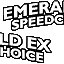
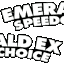
Added Sky Drop effect.

diff --git a/src/battle_util.c b/src/battle_util.c
@@ -1199,6 +1199,20 @@ void CancelMultiTurnMoves(u8 battler)
 
     gStatuses3[battler] &= ~(STATUS3_SEMI_INVULNERABLE);
 
+    // Check to see if this Pokemon was in the middle of Sky Drop. If so, release the target.
+    if (gBattleStruct->skyDropTargets[0] - 4 == battler)
+    {
+        gStatuses3[gBattleStruct->skyDropTargets[1]] &= ~STATUS3_SKY_DROPPED;
+        gBattleMons[gBattleStruct->skyDropTargets[1]].status2 &= ~STATUS2_ESCAPE_PREVENTION;
+        gBattleStruct->skyDropTargets[0] = 0;
+    }
+    else if (gBattleStruct->skyDropTargets[2] - 4 == battler)
+    {
+        gStatuses3[gBattleStruct->skyDropTargets[3]] &= ~STATUS3_SKY_DROPPED;
+        gBattleMons[gBattleStruct->skyDropTargets[3]].status2 &= ~STATUS2_ESCAPE_PREVENTION;
+        gBattleStruct->skyDropTargets[2] = 0;
+    }
+
     gDisableStructs[battler].rolloutTimer = 0;
     gDisableStructs[battler].furyCutterCounter = 0;
 }
@@ -2874,6 +2888,7 @@ static bool32 IsThawingMove(u8 battlerId, u16 move)
 enum
 {
     CANCELLER_FLAGS,
+    CANCELLER_SKY_DROP,
     CANCELLER_ASLEEP,
     CANCELLER_FROZEN,
     CANCELLER_TRUANT,
@@ -2909,6 +2924,16 @@ u8 AtkCanceller_UnableToUseMove(void)
         case CANCELLER_FLAGS: // flags clear
             gBattleMons[gBattlerAttacker].status2 &= ~(STATUS2_DESTINY_BOND);
             gStatuses3[gBattlerAttacker] &= ~(STATUS3_GRUDGE);
+            gBattleStruct->atkCancellerTracker++;
+            break;
+        case CANCELLER_SKY_DROP:
+            // If Pokemon has STATUS3_SKY_DROPPED
+            if ((gStatuses3[gBattlerAttacker] & STATUS3_ON_AIR) && (gStatuses3[gBattlerAttacker] & STATUS3_UNDERGROUND))
+            {
+                gBattlescriptCurrInstr = BattleScript_MoveEnd;
+                gHitMarker |= HITMARKER_UNABLE_TO_USE_MOVE;
+                effect = 1;
+            }
             gBattleStruct->atkCancellerTracker++;
             break;
         case CANCELLER_ASLEEP: // check being asleep
@@ -4484,7 +4509,9 @@ u8 AbilityBattleEffects(u8 caseID, u8 battler, u16 ability, u8 special, u16 move
              && (gMultiHitCounter == 0 || gMultiHitCounter == 1)
              && !(GetBattlerAbility(gBattlerAttacker) == ABILITY_SHEER_FORCE && gBattleMoves[gCurrentMove].flags & FLAG_SHEER_FORCE_BOOST)
              && (CanBattlerSwitch(battler) || !(gBattleTypeFlags & BATTLE_TYPE_TRAINER))
-             && !(gBattleTypeFlags & BATTLE_TYPE_ARENA))
+             && !(gBattleTypeFlags & BATTLE_TYPE_ARENA)
+             // Not currently held by Sky Drop
+             && !(gStatuses3[battler] & STATUS3_ON_AIR && gStatuses3[battler] & STATUS3_UNDERGROUND))
             {
                 gBattleResources->flags->flags[battler] |= RESOURCE_FLAG_EMERGENCY_EXIT;
                 effect++;
@@ -7909,7 +7936,11 @@ static u16 CalcTypeEffectivenessMultiplierInternal(u16 move, u8 moveType, u8 bat
 
     if (moveType == TYPE_GROUND && !IsBattlerGrounded(battlerDef))
     {
-        modifier = UQ_4_12(0.0);
+        if (move == MOVE_THOUSAND_ARROWS)
+            modifier = UQ_4_12(1.0);
+        else
+            modifier = UQ_4_12(0.0);
+
         if (recordAbilities && GetBattlerAbility(battlerDef) == ABILITY_LEVITATE)
         {
             gLastUsedAbility = ABILITY_LEVITATE;

diff --git a/src/battle_script_commands.c b/src/battle_script_commands.c
@@ -1014,7 +1014,7 @@ static const u16 sMoveEffectsForbiddenToInstruct[] =
     EFFECT_SEMI_INVULNERABLE,
     //EFFECT_SHELL_TRAP,
     EFFECT_SKETCH,
-    //EFFECT_SKY_DROP,
+    EFFECT_SKY_DROP,
     EFFECT_SKULL_BASH,
     EFFECT_SLEEP_TALK,
     EFFECT_SOLARBEAM,
@@ -1482,7 +1482,7 @@ static bool32 AccuracyCalcHelper(u16 move)
 
     if ((gStatuses3[gBattlerTarget] & STATUS3_PHANTOM_FORCE)
         || (!(gBattleMoves[move].flags & FLAG_HIT_IN_AIR) && gStatuses3[gBattlerTarget] & STATUS3_ON_AIR)
-        || (!(gBattleMoves[move].flags & FLAG_DMG_UNDERGROUND) && gStatuses3[gBattlerTarget] & STATUS3_UNDERGROUND)
+        || (!(gBattleMoves[move].flags & FLAG_DMG_UNDERGROUND) && gStatuses3[gBattlerTarget] & STATUS3_UNDERGROUND && !(gStatuses3[gBattlerTarget] & STATUS3_ON_AIR))
         || (!(gBattleMoves[move].flags & FLAG_DMG_UNDERWATER) && gStatuses3[gBattlerTarget] & STATUS3_UNDERWATER))
     {
         gMoveResultFlags |= MOVE_RESULT_MISSED;
@@ -8458,6 +8458,40 @@ static void Cmd_various(void)
     case VARIOUS_SET_Z_EFFECT:
         SetZEffect();   //handles battle script jumping internally
         return;
+    case VARIOUS_JUMP_IF_UNDER_200:
+        // If the Pokemon is less than 200 kg, or weighing less than 441 lbs, then Sky Drop will work. Otherwise, it will fail.
+        if (GetPokedexHeightWeight(SpeciesToNationalPokedexNum(gBattleMons[gBattlerTarget].species), 1) < 441)
+            gBattlescriptCurrInstr = T1_READ_PTR(gBattlescriptCurrInstr + 3);
+        else
+            gBattlescriptCurrInstr += 7;
+        return;
+    case VARIOUS_SET_SKY_DROP:
+        gStatuses3[gBattlerTarget] |= STATUS3_SKY_DROPPED;
+        gBattleMons[gBattlerTarget].status2 |= STATUS2_ESCAPE_PREVENTION;
+        gDisableStructs[gBattlerTarget].battlerPreventingEscape = gBattlerAttacker;
+        /* skyDropTargets holds the information of who is the attacker and the target of Sky Drop. 
+           It's necessary in case two Pokemon use Sky Drop in a double battle at once.
+           Otherwise, the game will confuse which Pokemon was targeted by which if one of the attackers
+           is affected by Yawn while in the air. */
+        if (gBattleStruct->skyDropTargets[0] < 4)
+        {
+            gBattleStruct->skyDropTargets[0] = gBattlerAttacker + 4;
+            gBattleStruct->skyDropTargets[1] = gBattlerTarget;
+        }
+        else
+        {
+            gBattleStruct->skyDropTargets[2] = gBattlerAttacker + 4;
+            gBattleStruct->skyDropTargets[3] = gBattlerTarget;
+        }
+        break;
+    case VARIOUS_CLEAR_SKY_DROP:
+        gStatuses3[gBattlerTarget] &= ~STATUS3_SKY_DROPPED;
+        gBattleMons[gBattlerTarget].status2 &= ~STATUS2_ESCAPE_PREVENTION;
+        if (gBattleStruct->skyDropTargets[0] - 4 == gBattlerAttacker)
+           gBattleStruct->skyDropTargets[0] = 0;
+        else
+           gBattleStruct->skyDropTargets[2] = 0;
+        break;
     }
 
     gBattlescriptCurrInstr += 3;
@@ -11042,6 +11076,7 @@ static void Cmd_setsemiinvulnerablebit(void)
     {
     case MOVE_FLY:
     case MOVE_BOUNCE:
+    case MOVE_SKY_DROP:
         gStatuses3[gBattlerAttacker] |= STATUS3_ON_AIR;
         break;
     case MOVE_DIG:

diff --git a/src/battle_message.c b/src/battle_message.c
@@ -431,6 +431,8 @@ static const u8 sText_ExclamationMark4[] = _("!");
 static const u8 sText_ExclamationMark5[] = _("!");
 static const u8 sText_Accuracy[] = _("accuracy");
 static const u8 sText_Evasiveness[] = _("evasiveness");
+static const u8 sText_PkmnTookTargetHigh[] = _("{B_ATK_NAME_WITH_PREFIX} took {B_DEF_NAME_WITH_PREFIX}\ninto the air!");
+static const u8 sText_TargetTooHeavy[] = _("But the target\nwas too heavy!");
 
 const u8 * const gStatNamesTable[NUM_BATTLE_STATS] =
 {
@@ -1270,6 +1272,8 @@ const u8 *const gBattleStringsTable[BATTLESTRINGS_COUNT] =
     [STRINGID_COMATOSEENTERS - 12] = sText_ComatoseActivates,
     [STRINGID_SCREENCLEANERENTERS - 12] = sText_ScreenCleanerActivates,
     [STRINGID_TERRAINREMOVED - 12] = sText_TerrainReturnedToNormal,
+    [STRINGID_PKMNTOOKTARGETHIGH - 12] = sText_PkmnTookTargetHigh,
+    [STRINGID_TARGETTOOHEAVY - 12] = sText_TargetTooHeavy,
 };
 
 const u16 gZEffectStringIds[] = 
@@ -1438,6 +1442,7 @@ const u16 gFirstTurnOfTwoStringIds[] =
     STRINGID_VANISHEDINSTANTLY,         // MOVE_PHANTOM_FORCE
     STRINGID_PKNMABSORBINGPOWER,        // MOVE_GEOMANCY
     STRINGID_CLOAKEDINAFREEZINGLIGHT,   // MOVE_FREEZE_SHOCK
+    STRINGID_PKMNTOOKTARGETHIGH,        // MOVE_SKY_DROP
 };
 
 // Index copied from move's index in gTrappingMoves

diff --git a/src/battle_main.c b/src/battle_main.c
@@ -3823,10 +3823,12 @@ static void HandleTurnActionSelectionState(void)
                     }
                     break;
                 case B_ACTION_USE_ITEM:
-                    if (((gDebugSystemEnabled == TRUE) && FlagGet(FLAG_SYS_NO_BAG_USE)) || gBattleTypeFlags & (BATTLE_TYPE_LINK
+                    if (((gDebugSystemEnabled == TRUE) && FlagGet(FLAG_SYS_NO_BAG_USE)) || (gBattleTypeFlags & (BATTLE_TYPE_LINK
                                             | BATTLE_TYPE_FRONTIER_NO_PYRAMID
                                             | BATTLE_TYPE_EREADER_TRAINER
                                             | BATTLE_TYPE_RECORDED_LINK))
+                                            // Or if currently held by Sky Drop
+                                            || ((gStatuses3[gActiveBattler] & STATUS3_ON_AIR) && (gStatuses3[gActiveBattler] & STATUS3_UNDERGROUND)))
                     {
                         RecordedBattle_ClearBattlerAction(gActiveBattler, 1);
                         gSelectionBattleScripts[gActiveBattler] = BattleScript_ActionSelectionItemsCantBeUsed;

diff --git a/include/constants/battle.h b/include/constants/battle.h
@@ -171,6 +171,7 @@
 #define STATUS3_LASER_FOCUS             (1 << 29)
 #define STATUS3_ELECTRIFIED             (1 << 30)
 #define STATUS3_POWER_TRICK             (1 << 31)
+#define STATUS3_SKY_DROPPED             (STATUS3_ON_AIR | STATUS3_UNDERGROUND)
 #define STATUS3_SEMI_INVULNERABLE       (STATUS3_UNDERGROUND | STATUS3_ON_AIR | STATUS3_UNDERWATER | STATUS3_PHANTOM_FORCE)
 
 #define HITMARKER_x10                   (1 << 4)
@@ -343,7 +344,8 @@
 #define MOVE_EFFECT_THROAT_CHOP         0x43
 #define MOVE_EFFECT_INCINERATE          0x44
 #define MOVE_EFFECT_BUG_BITE            0x45
-#define NUM_MOVE_EFFECTS                0x46
+#define MOVE_EFFECT_SKY_DROP            0x46
+#define NUM_MOVE_EFFECTS                0x47
 
 #define MOVE_EFFECT_AFFECTS_USER        0x4000
 #define MOVE_EFFECT_CERTAIN             0x8000

diff --git a/src/battle_ai_switch_items.c b/src/battle_ai_switch_items.c
@@ -792,7 +792,9 @@ static bool8 ShouldUseItem(void)
     u8 validMons = 0;
     bool8 shouldUse = FALSE;
 
-    if (gBattleTypeFlags & BATTLE_TYPE_INGAME_PARTNER && GetBattlerPosition(gActiveBattler) == B_POSITION_PLAYER_RIGHT)
+    // If teaming up with player and Pokemon is on the right, or Pokemon is currently held by Sky Drop
+    if ((gBattleTypeFlags & BATTLE_TYPE_INGAME_PARTNER && GetBattlerPosition(gActiveBattler) == B_POSITION_PLAYER_RIGHT)
+       || (gStatuses3[gActiveBattler] & STATUS3_ON_AIR && gStatuses3[gActiveBattler] & STATUS3_UNDERGROUND))
         return FALSE;
 
     if (GetBattlerSide(gActiveBattler) == B_SIDE_PLAYER)

diff --git a/src/title_screen.c b/src/title_screen.c
@@ -24,8 +24,8 @@
 #include "constants/songs.h"
 
 #define VERSION_BANNER_RIGHT_TILEOFFSET 64
-#define VERSION_BANNER_LEFT_X 94 // SPEEDCHOICE CHANGE: Version gfx edit, left 4 pixels
-#define VERSION_BANNER_RIGHT_X 158 // same here
+#define VERSION_BANNER_LEFT_X 88 // SPEEDCHOICE CHANGE: Version gfx edit, left 4 pixels
+#define VERSION_BANNER_RIGHT_X 152 // same here
 #define VERSION_BANNER_Y 2
 #define VERSION_BANNER_Y_GOAL 68 // SPEEDCHOICE CHANGE: down 2 pixels
 #define START_BANNER_X 128

diff --git a/include/battle.h b/include/battle.h
@@ -574,6 +574,7 @@ struct BattleStruct
     u16 moveEffect2; // For Knock Off
     u16 changedSpecies[PARTY_SIZE]; // For Zygarde or future forms when multiple mons can change into the same pokemon.
     u8 quickClawBattlerId;
+    u8 skyDropTargets[MAX_BATTLERS_COUNT]; // For Sky Drop, to account for if multiple Pokemon use Sky Drop in a double battle.
 };
 
 #define GET_MOVE_TYPE(move, typeArg)                        \

diff --git a/include/constants/battle_script_commands.h b/include/constants/battle_script_commands.h
@@ -171,6 +171,9 @@
 #define VARIOUS_TOTEM_BOOST                     103
 #define VARIOUS_TRY_ACTIVATE_GRIM_NEIGH         104
 #define VARIOUS_SET_Z_EFFECT                    105
+#define VARIOUS_JUMP_IF_UNDER_200               106
+#define VARIOUS_SET_SKY_DROP                    107
+#define VARIOUS_CLEAR_SKY_DROP                  108
 
 // Cmd_manipulatedamage
 #define DMG_CHANGE_SIGN            0

diff --git a/src/data/items.h b/src/data/items.h
@@ -2901,7 +2901,7 @@ const struct Item gItems[] =
         .name = _("Razor Claw"),
         .itemId = ITEM_RAZOR_CLAW,
         .price = 5000,
-        .holdEffect = HOLD_EFFECT_NONE, // Placeholder.
+        .holdEffect = HOLD_EFFECT_SCOPE_LENS,
         .description = sRazorClawDesc,
         .pocket = POCKET_ITEMS,
         .type = ITEM_USE_BAG_MENU,

diff --git a/include/constants/battle_string_ids.h b/include/constants/battle_string_ids.h
@@ -577,8 +577,10 @@
 #define STRINGID_ZMOVESTATUP 573
 #define STRINGID_ZMOVEHPTRAP 574
 #define STRINGID_TERRAINREMOVED 575
+#define STRINGID_TARGETTOOHEAVY 576
+#define STRINGID_PKMNTOOKTARGETHIGH 577
 
-#define BATTLESTRINGS_COUNT     576
+#define BATTLESTRINGS_COUNT     578
 
 //// multichoice message IDs
 // switch in ability message

diff --git a/include/constants/battle_move_effects.h b/include/constants/battle_move_effects.h
@@ -353,7 +353,8 @@
 #define EFFECT_SLEEP_HIT 347 // Relic Song
 #define EFFECT_EXTREME_EVOBOOST 348
 #define EFFECT_DAMAGE_SET_TERRAIN 349 //genesis supernova
+#define EFFECT_SKY_DROP 350
 
-#define NUM_BATTLE_MOVE_EFFECTS 348
+#define NUM_BATTLE_MOVE_EFFECTS 351
 
 #endif  // GUARD_CONSTANTS_BATTLE_MOVE_EFFECTS_H
